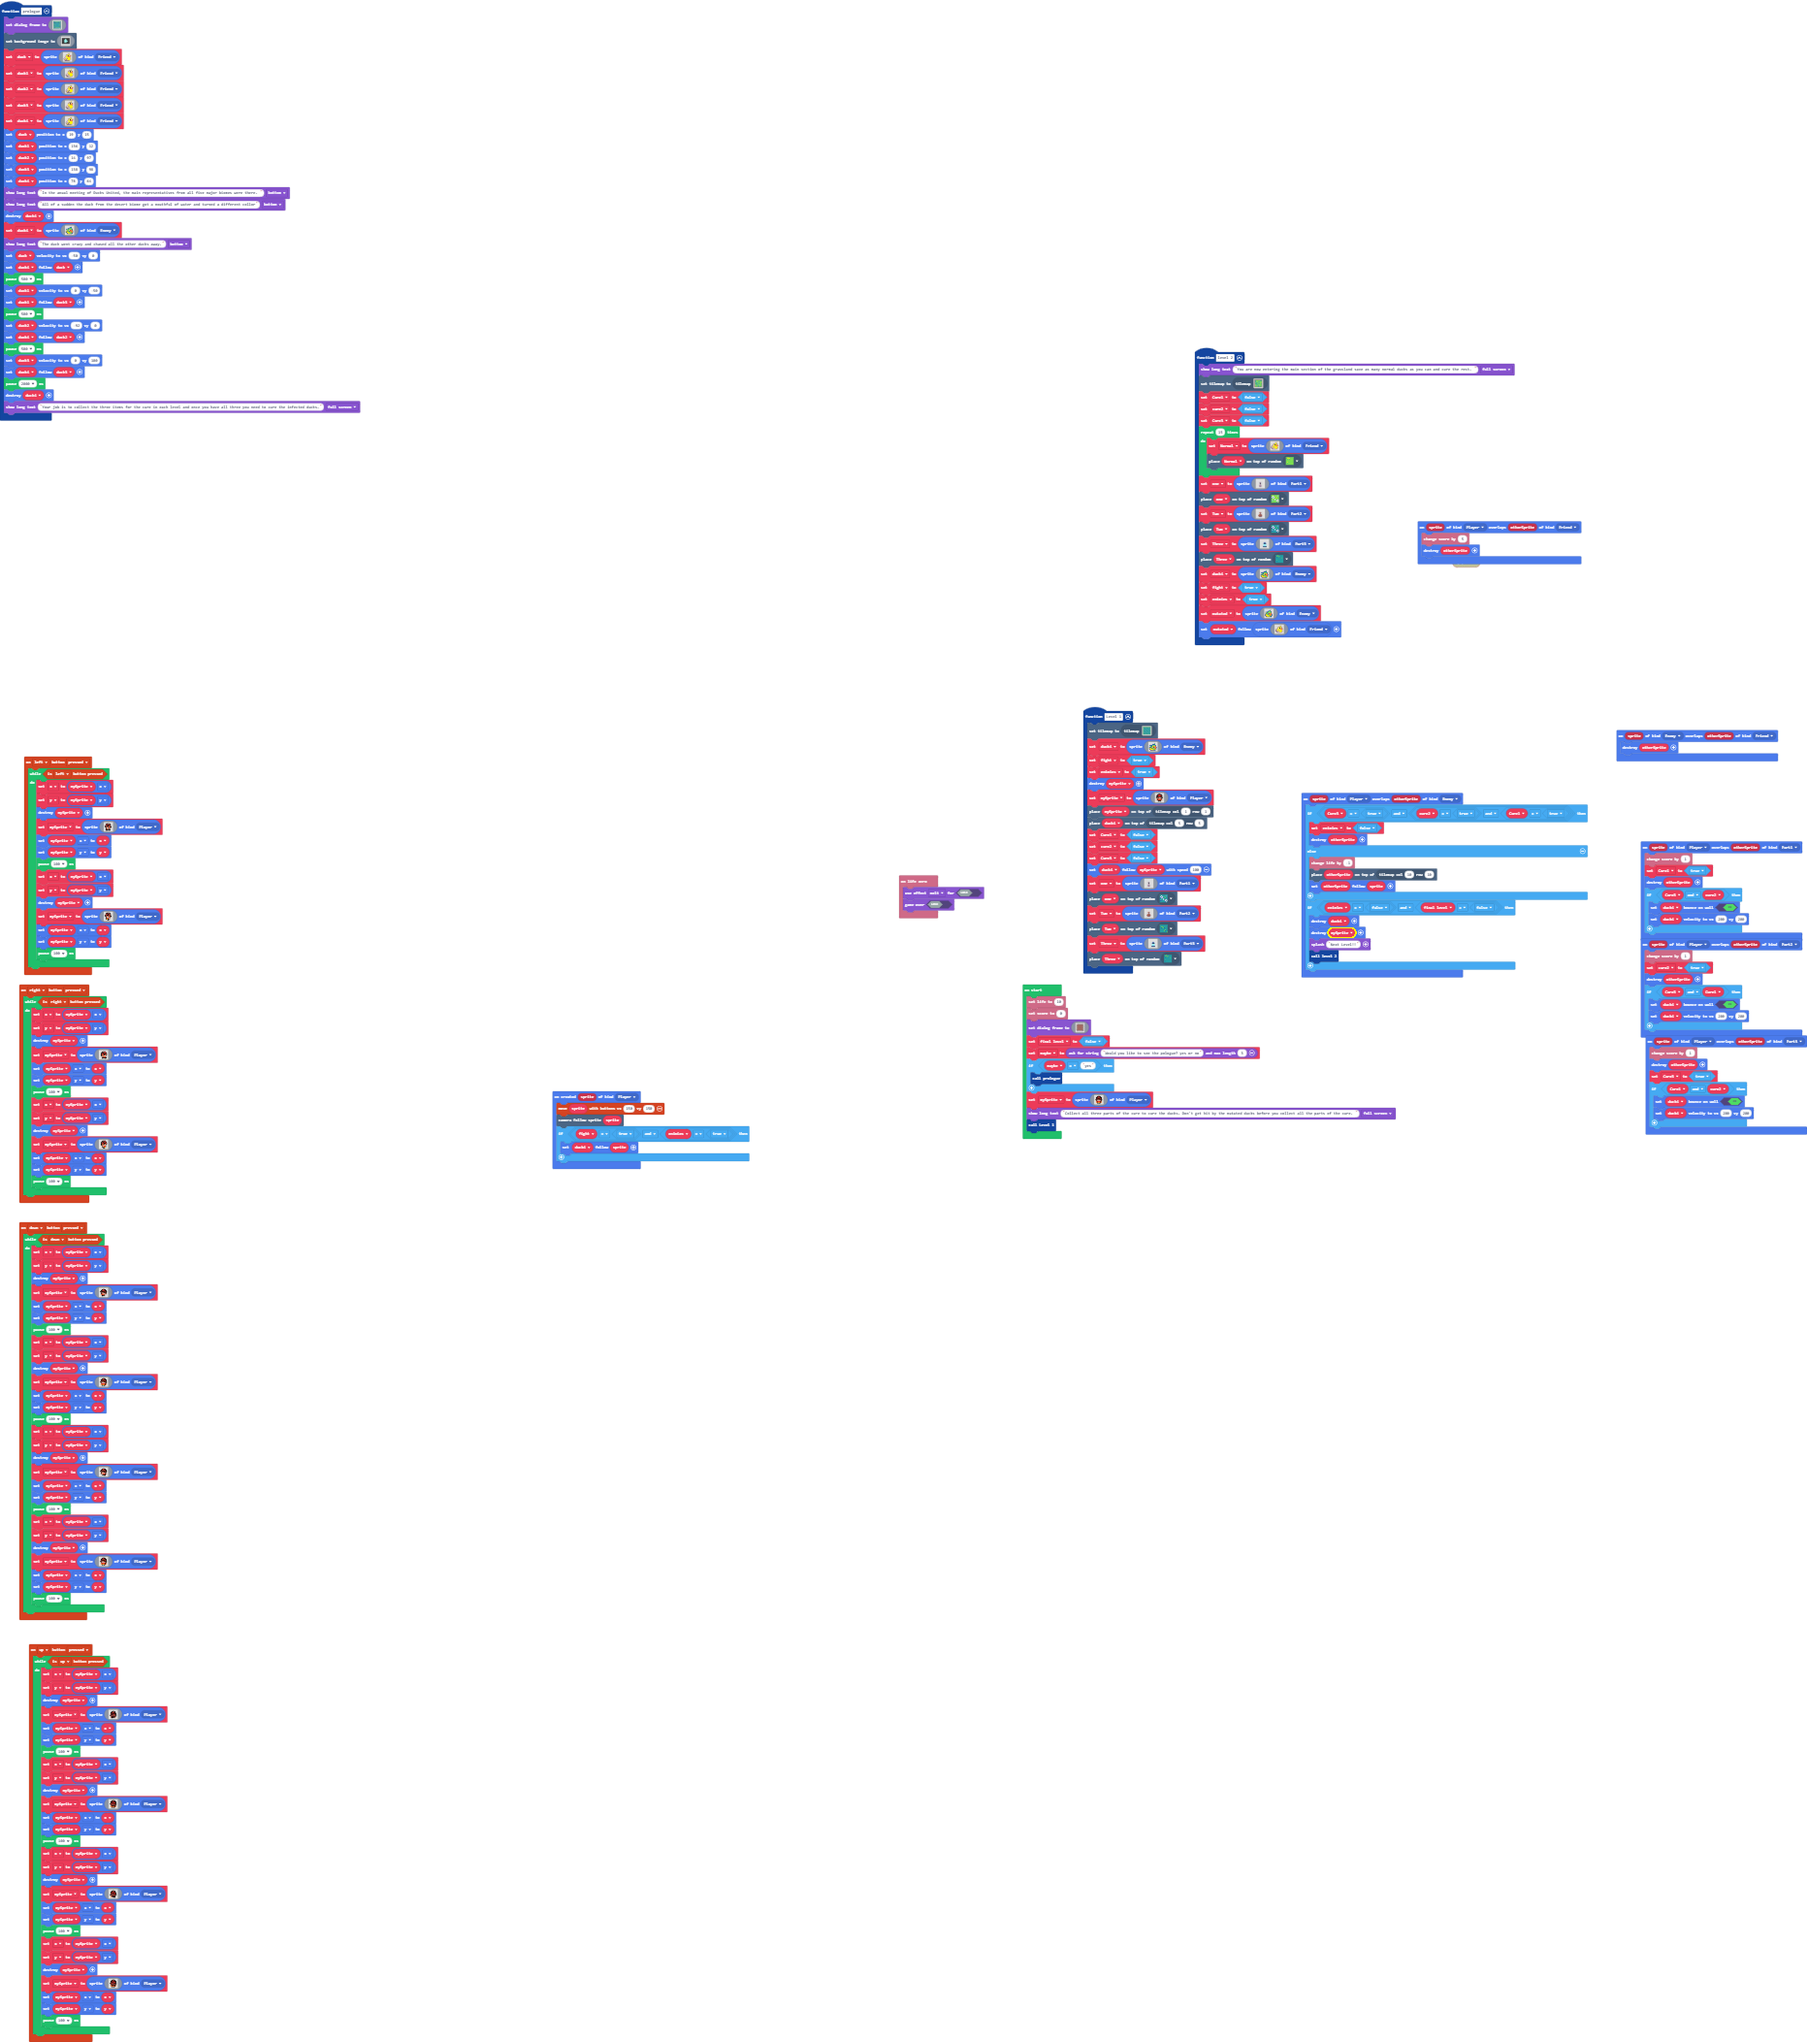
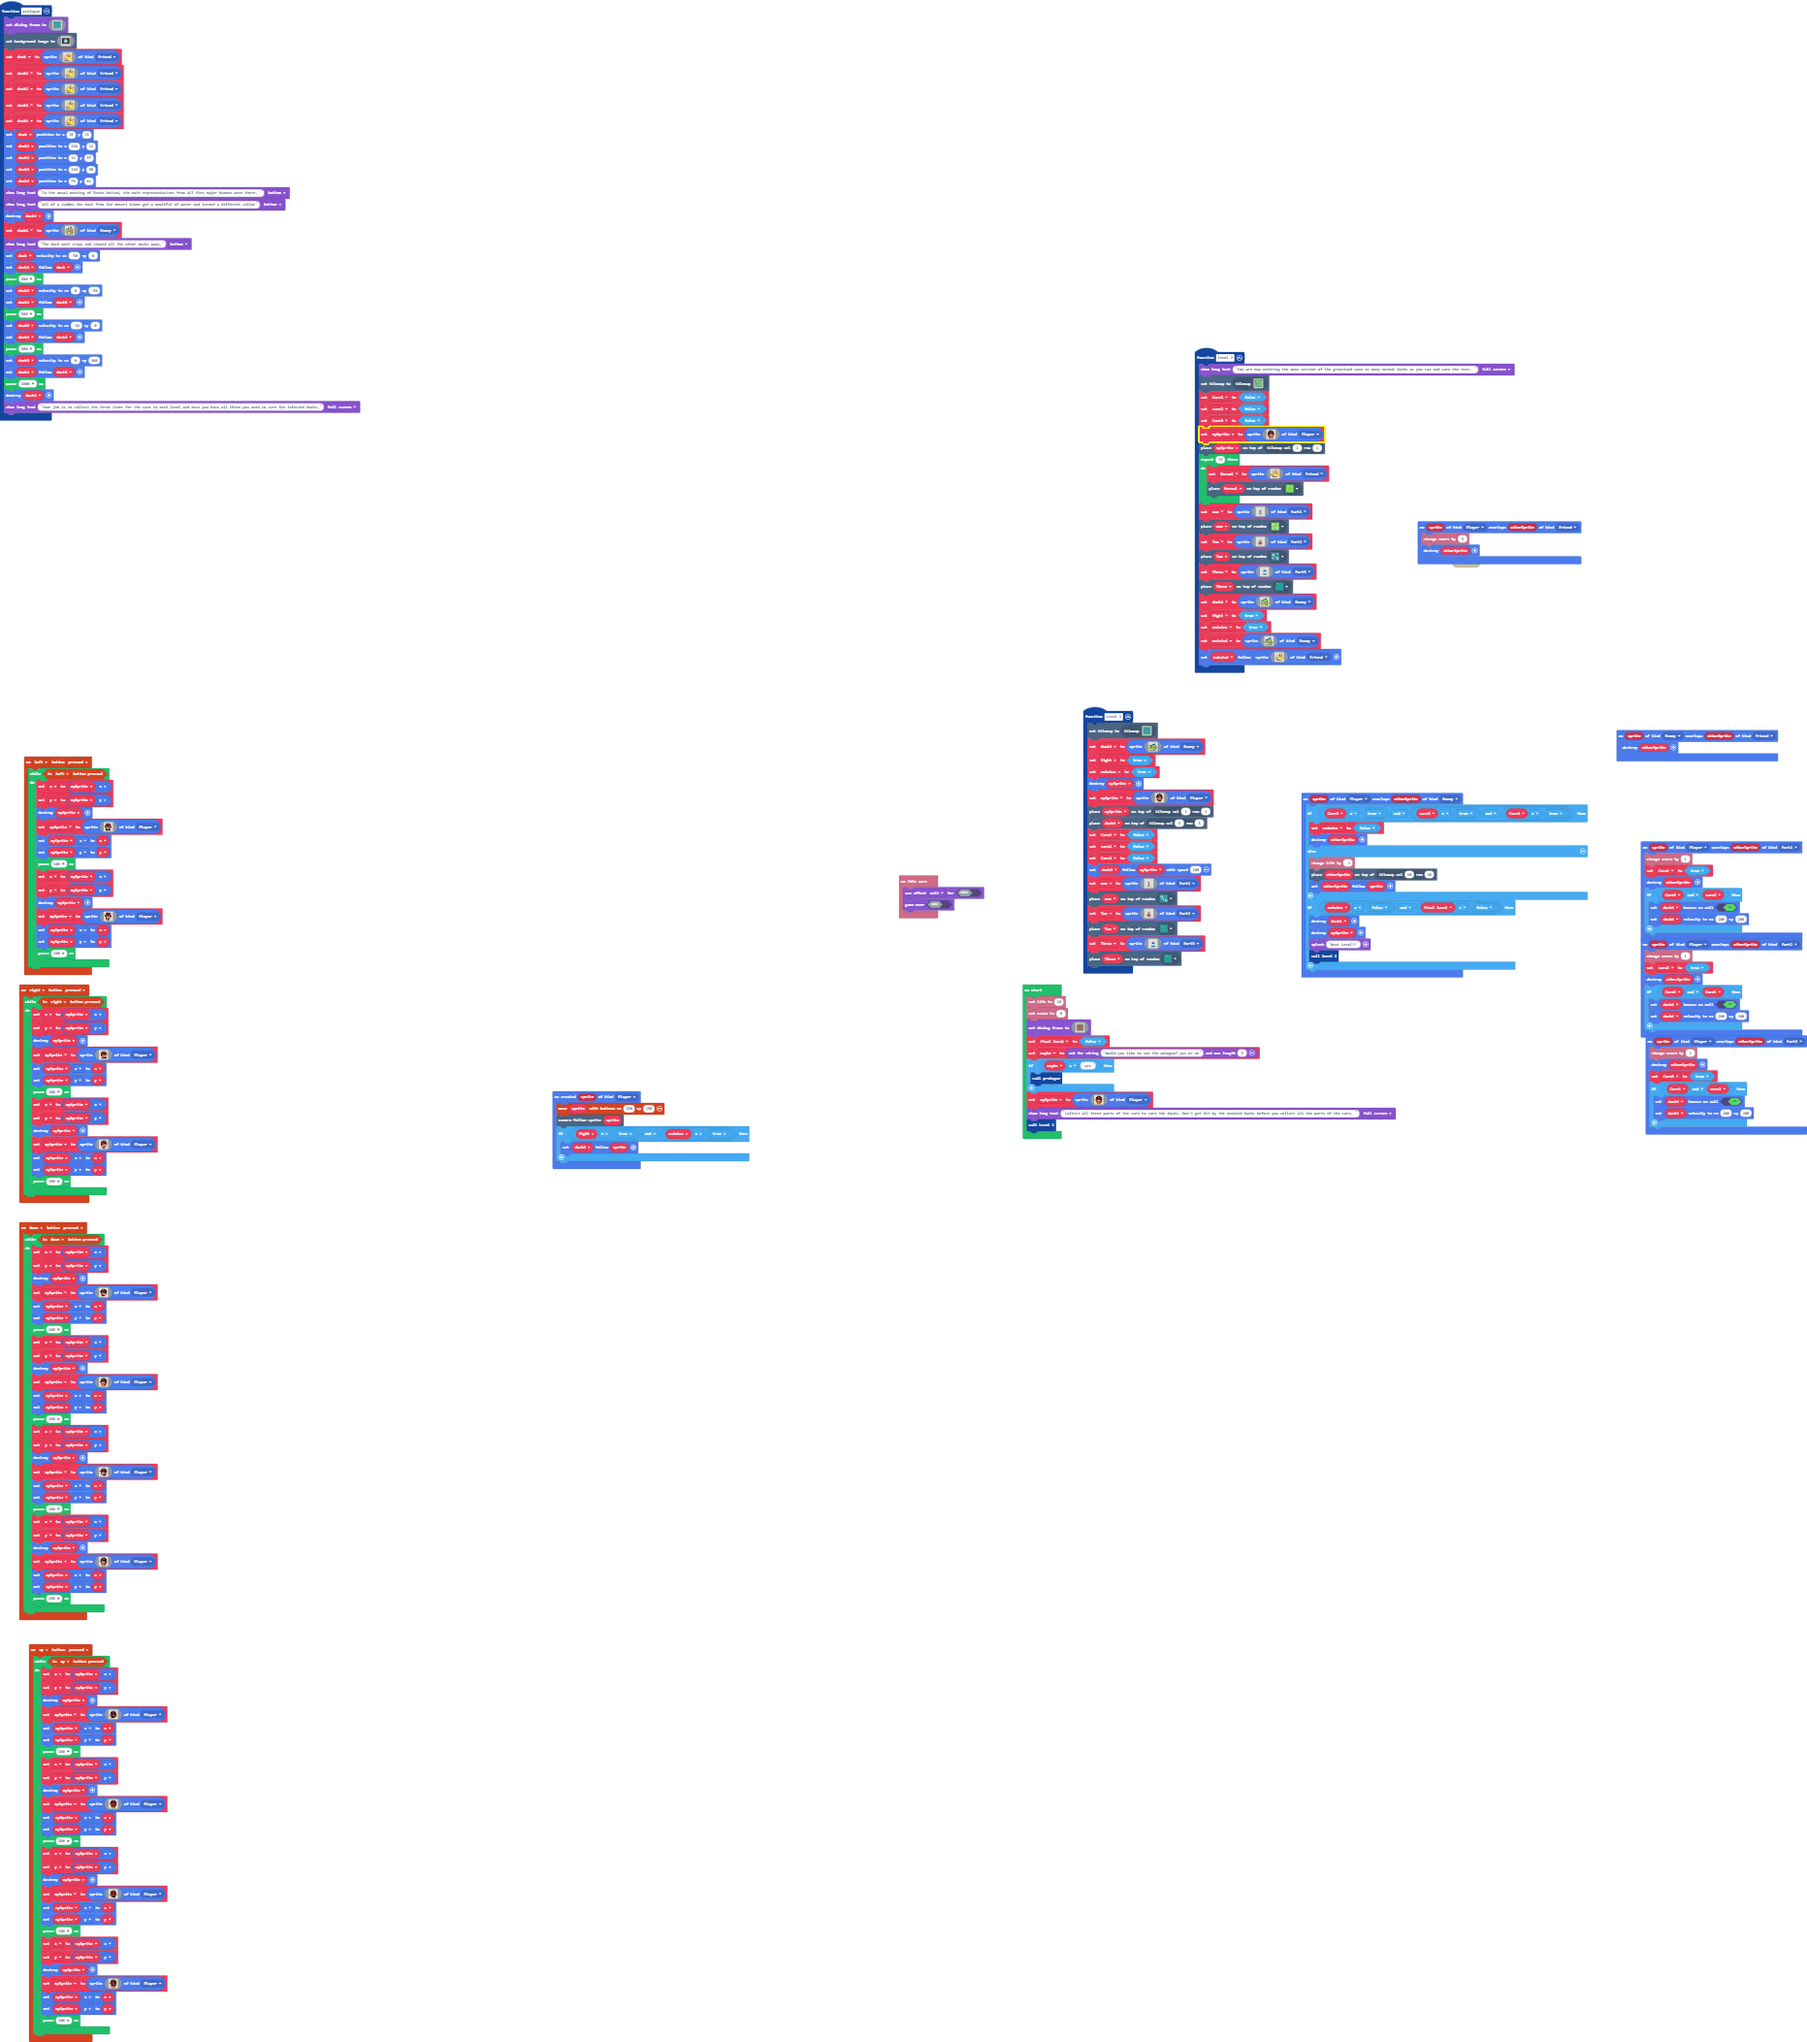
Update main.blocks, main.ts

Changed region(s): [[0.6538, 0.1853, 0.7472, 0.3397]]

diff --git a/main.ts b/main.ts
@@ -162,6 +162,25 @@ function level_2 () {
     Cure1 = false
     cure2 = false
     Cure3 = false
+    mySprite = sprites.create(img`
+        . . . . . . f f f f . . . . . . 
+        . . . . f f f 2 2 f f f . . . . 
+        . . . f f f 2 2 2 2 f f f . . . 
+        . . f f f e e e e e e f f f . . 
+        . . f f e 2 2 2 2 2 2 e e f . . 
+        . . f e 2 f f f f f f 2 e f . . 
+        . . f f f f e e e e f f f f . . 
+        . f f e f b f 4 4 f b f e f f . 
+        . f e e 4 1 f d d f 1 4 e e f . 
+        . . f e e d d d d d d e e f . . 
+        . . . f e e 4 4 4 4 e e f . . . 
+        . . e 4 f 2 2 2 2 2 2 f 4 e . . 
+        . . 4 d f 2 2 2 2 2 2 f d 4 . . 
+        . . 4 4 f 4 4 5 5 4 4 f 4 4 . . 
+        . . . . . f f f f f f . . . . . 
+        . . . . . f f . . f f . . . . . 
+        `, SpriteKind.Player)
+    tiles.placeOnTile(mySprite, tiles.getTileLocation(1, 1))
     for (let index = 0; index < 15; index++) {
         Normal = sprites.create(img`
             . . . . . . . . . . b 5 b . . . 
